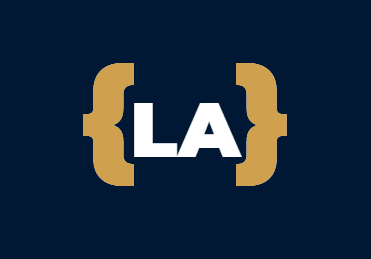
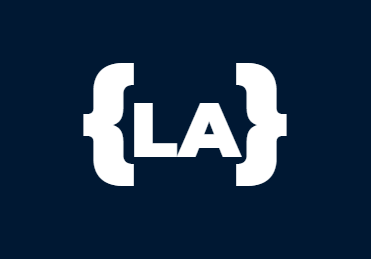
Site updated: 2021-08-17 13:42:07

Changed region(s): [[0.2075, 0.2162, 0.3854, 0.7413], [0.6226, 0.2162, 0.7709, 0.7413]]

diff --git a/404.html b/404.html
@@ -11,7 +11,7 @@
   
   <!-- linked in image -->
   <meta name="title" property='og:title' content='My portfolio' />
-  <meta name="image" property='og:image' content='//lois-aubree.com/img/la.png'/>
+  <meta name="image" property='og:image' content='//lois-aubree.com/img/la-r.png'/>
   <meta name="author" content='Lois Aubree'>
   <meta property='og:type' content='website' />
   <meta property='og:site_name' content='My portoflio'>

diff --git a/about.html b/about.html
@@ -11,7 +11,7 @@
   
   <!-- linked in image -->
   <meta name="title" property='og:title' content='My portfolio' />
-  <meta name="image" property='og:image' content='//lois-aubree.com/img/la.png'/>
+  <meta name="image" property='og:image' content='//lois-aubree.com/img/la-r.png'/>
   <meta name="author" content='Lois Aubree'>
   <meta property='og:type' content='website' />
   <meta property='og:site_name' content='My portoflio'>

diff --git a/blog.html b/blog.html
@@ -11,7 +11,7 @@
   
   <!-- linked in image -->
   <meta name="title" property='og:title' content='My portfolio' />
-  <meta name="image" property='og:image' content='//lois-aubree.com/img/la.png'/>
+  <meta name="image" property='og:image' content='//lois-aubree.com/img/la-r.png'/>
   <meta name="author" content='Lois Aubree'>
   <meta property='og:type' content='website' />
   <meta property='og:site_name' content='My portoflio'>

diff --git a/en/2019/First-post/index.html b/en/2019/First-post/index.html
@@ -11,7 +11,7 @@
   
   <!-- linked in image -->
   <meta name="title" property='og:title' content='My portfolio' />
-  <meta name="image" property='og:image' content='//lois-aubree.com/img/la.png'/>
+  <meta name="image" property='og:image' content='//lois-aubree.com/img/la-r.png'/>
   <meta name="author" content='Lois Aubree'>
   <meta property='og:type' content='website' />
   <meta property='og:site_name' content='My portoflio'>

diff --git a/en/2019/Unity-Package-Manager/index.html b/en/2019/Unity-Package-Manager/index.html
@@ -11,7 +11,7 @@
   
   <!-- linked in image -->
   <meta name="title" property='og:title' content='My portfolio' />
-  <meta name="image" property='og:image' content='//lois-aubree.com/img/la.png'/>
+  <meta name="image" property='og:image' content='//lois-aubree.com/img/la-r.png'/>
   <meta name="author" content='Lois Aubree'>
   <meta property='og:type' content='website' />
   <meta property='og:site_name' content='My portoflio'>

diff --git a/fr/2019/First-post/index.html b/fr/2019/First-post/index.html
@@ -11,7 +11,7 @@
   
   <!-- linked in image -->
   <meta name="title" property='og:title' content='My portfolio' />
-  <meta name="image" property='og:image' content='//lois-aubree.com/img/la.png'/>
+  <meta name="image" property='og:image' content='//lois-aubree.com/img/la-r.png'/>
   <meta name="author" content='Lois Aubree'>
   <meta property='og:type' content='website' />
   <meta property='og:site_name' content='My portoflio'>

diff --git a/fr/2019/Unity-Package-Manager/index.html b/fr/2019/Unity-Package-Manager/index.html
@@ -11,7 +11,7 @@
   
   <!-- linked in image -->
   <meta name="title" property='og:title' content='My portfolio' />
-  <meta name="image" property='og:image' content='//lois-aubree.com/img/la.png'/>
+  <meta name="image" property='og:image' content='//lois-aubree.com/img/la-r.png'/>
   <meta name="author" content='Lois Aubree'>
   <meta property='og:type' content='website' />
   <meta property='og:site_name' content='My portoflio'>

diff --git a/fr/2021/React-diffusion/index.html b/fr/2021/React-diffusion/index.html
@@ -11,7 +11,7 @@
   
   <!-- linked in image -->
   <meta name="title" property='og:title' content='My portfolio' />
-  <meta name="image" property='og:image' content='//lois-aubree.com/img/la.png'/>
+  <meta name="image" property='og:image' content='//lois-aubree.com/img/la-r.png'/>
   <meta name="author" content='Lois Aubree'>
   <meta property='og:type' content='website' />
   <meta property='og:site_name' content='My portoflio'>

diff --git a/fr/404.html b/fr/404.html
@@ -11,7 +11,7 @@
   
   <!-- linked in image -->
   <meta name="title" property='og:title' content='My portfolio' />
-  <meta name="image" property='og:image' content='//lois-aubree.com/img/la.png'/>
+  <meta name="image" property='og:image' content='//lois-aubree.com/img/la-r.png'/>
   <meta name="author" content='Lois Aubree'>
   <meta property='og:type' content='website' />
   <meta property='og:site_name' content='My portoflio'>

diff --git a/fr/about.html b/fr/about.html
@@ -11,7 +11,7 @@
   
   <!-- linked in image -->
   <meta name="title" property='og:title' content='My portfolio' />
-  <meta name="image" property='og:image' content='//lois-aubree.com/img/la.png'/>
+  <meta name="image" property='og:image' content='//lois-aubree.com/img/la-r.png'/>
   <meta name="author" content='Lois Aubree'>
   <meta property='og:type' content='website' />
   <meta property='og:site_name' content='My portoflio'>

diff --git a/fr/blog.html b/fr/blog.html
@@ -11,7 +11,7 @@
   
   <!-- linked in image -->
   <meta name="title" property='og:title' content='My portfolio' />
-  <meta name="image" property='og:image' content='//lois-aubree.com/img/la.png'/>
+  <meta name="image" property='og:image' content='//lois-aubree.com/img/la-r.png'/>
   <meta name="author" content='Lois Aubree'>
   <meta property='og:type' content='website' />
   <meta property='og:site_name' content='My portoflio'>

diff --git a/fr/index.html b/fr/index.html
@@ -11,7 +11,7 @@
   
   <!-- linked in image -->
   <meta name="title" property='og:title' content='My portfolio' />
-  <meta name="image" property='og:image' content='//lois-aubree.com/img/la.png'/>
+  <meta name="image" property='og:image' content='//lois-aubree.com/img/la-r.png'/>
   <meta name="author" content='Lois Aubree'>
   <meta property='og:type' content='website' />
   <meta property='og:site_name' content='My portoflio'>
